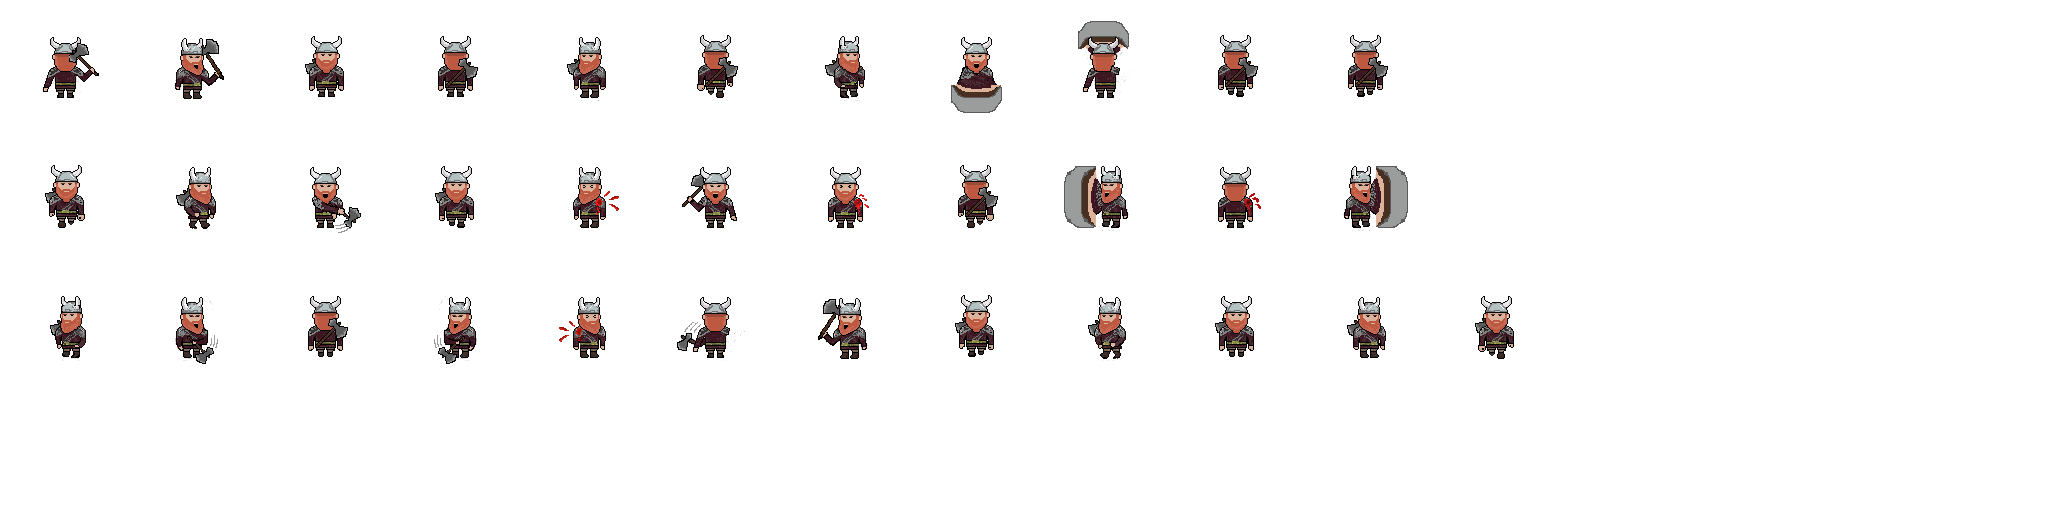
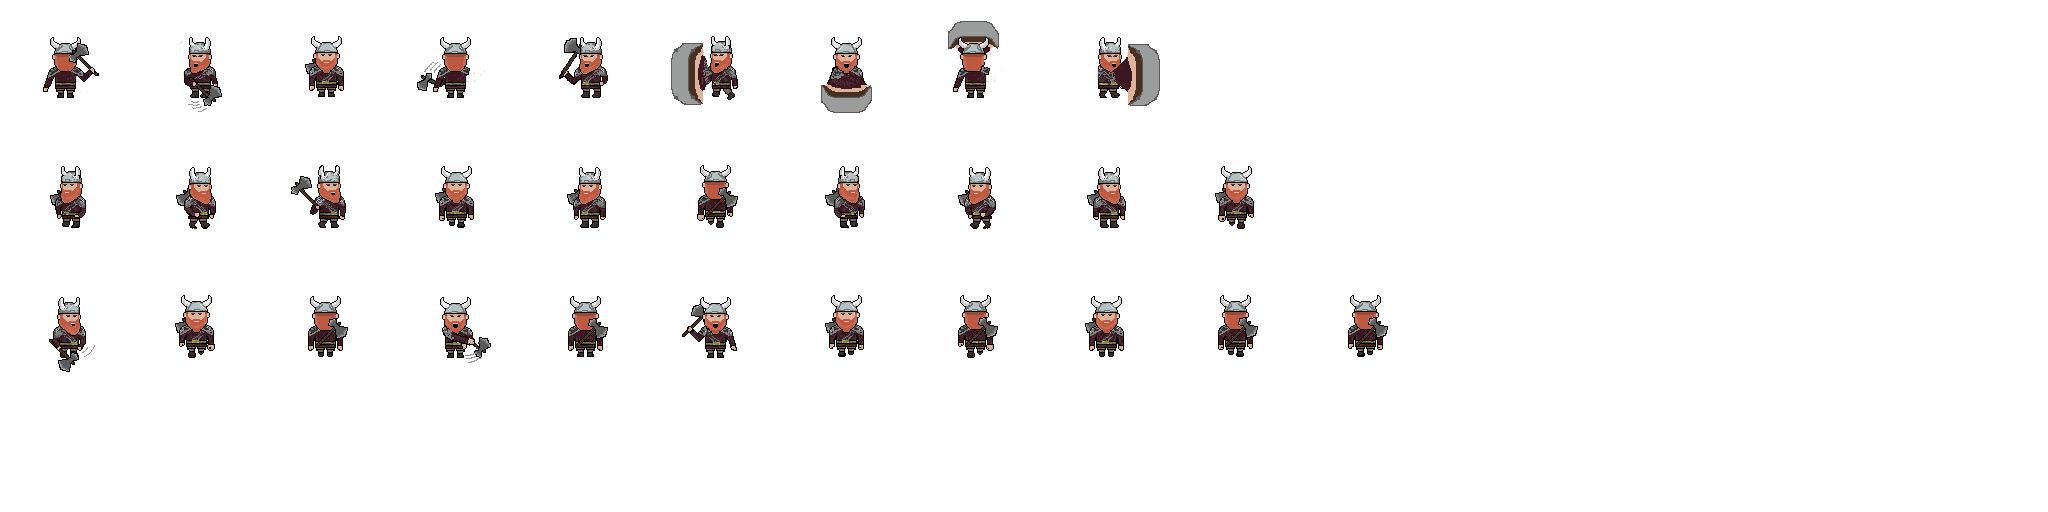
Added updated axe animations. #310

diff --git a/source/core/src/main/com/deco2800/game/areas/GameArea.java b/source/core/src/main/com/deco2800/game/areas/GameArea.java
@@ -135,7 +135,7 @@ public abstract class GameArea implements Disposable {
             "end/portal.atlas", "Odin/odin.atlas", "images/player_scepter.atlas", "images/player_hammer.atlas",
             "images/player_longsword.atlas", "images/hammer_projectile.atlas", "images/outdoorWarrior.atlas",
             "images/guardElf.atlas", "images/rangedElf.atlas", "images/fireball/fireballAnimation.atlas",
-            "images/player_scepter.atlas", "images/player_hammer.atlas", "images/newArrowBroken/atlas/arrow.atlas",
+             "images/newArrowBroken/atlas/arrow.atlas", "images/player_axe.atlas",
             "images/viking.atlas", "images/meleeAnimationsTextured.atlas",
             "images/meleeFinal.atlas", "images/assassinFinal.atlas", "images/guardFinal.atlas", "images/rangedAllFinal.atlas", "images/bossFinal.atlas",
             "images/explosion/explosion.atlas", "images/hellViking.atlas", "images/outdoorArcher.atlas", "images/asgardWarrior.atlas",
@@ -163,7 +163,7 @@ public abstract class GameArea implements Disposable {
     protected static final String TILES_WIDTH = "n_tiles_width";
     protected static final String WALL_HEIGHT = "height";
     protected static final String WALL_WIDTH = "width";
-    protected String playerWeaponType = "Hammer";
+    protected String playerWeaponType = "Axe";
 
     protected GameArea() {
         areaEntities = new ArrayList<>();
@@ -178,6 +178,7 @@ public abstract class GameArea implements Disposable {
         tileTextures = map.tileRefsArray();
         loadAssets();
         displayUI(areaName);
+        setWeapon(areaName);
 
         spawnTerrain();
         spawnObstacles();
@@ -191,6 +192,25 @@ public abstract class GameArea implements Disposable {
 
         playMusic();
 
+    }
+
+    /**
+     * Used to retrieve the weapon associated with a given level.
+     */
+    private void setWeapon(String areaName) {
+        switch (areaName) {
+            case "Level 3":
+                playerWeaponType = "Longsword";
+                break;
+            case "Level 4":
+                playerWeaponType = "Scepter";
+                break;
+            case "Level 5":
+                playerWeaponType = "Hammer";
+                break;
+            default:
+                playerWeaponType = "Axe";
+        }
     }
 
     /**

diff --git a/source/core/src/main/com/deco2800/game/areas/TutorialGameArea.java b/source/core/src/main/com/deco2800/game/areas/TutorialGameArea.java
@@ -98,7 +98,7 @@ public class TutorialGameArea extends GameArea {
      */
     public GameArea create() {
         levelInt = 9;
-        playerWeaponType = "Scepter";
+        playerWeaponType = "Axe";
         super.create("maps/MapObjects.json", "Map Test");
 
         spawnMeleeElf();
